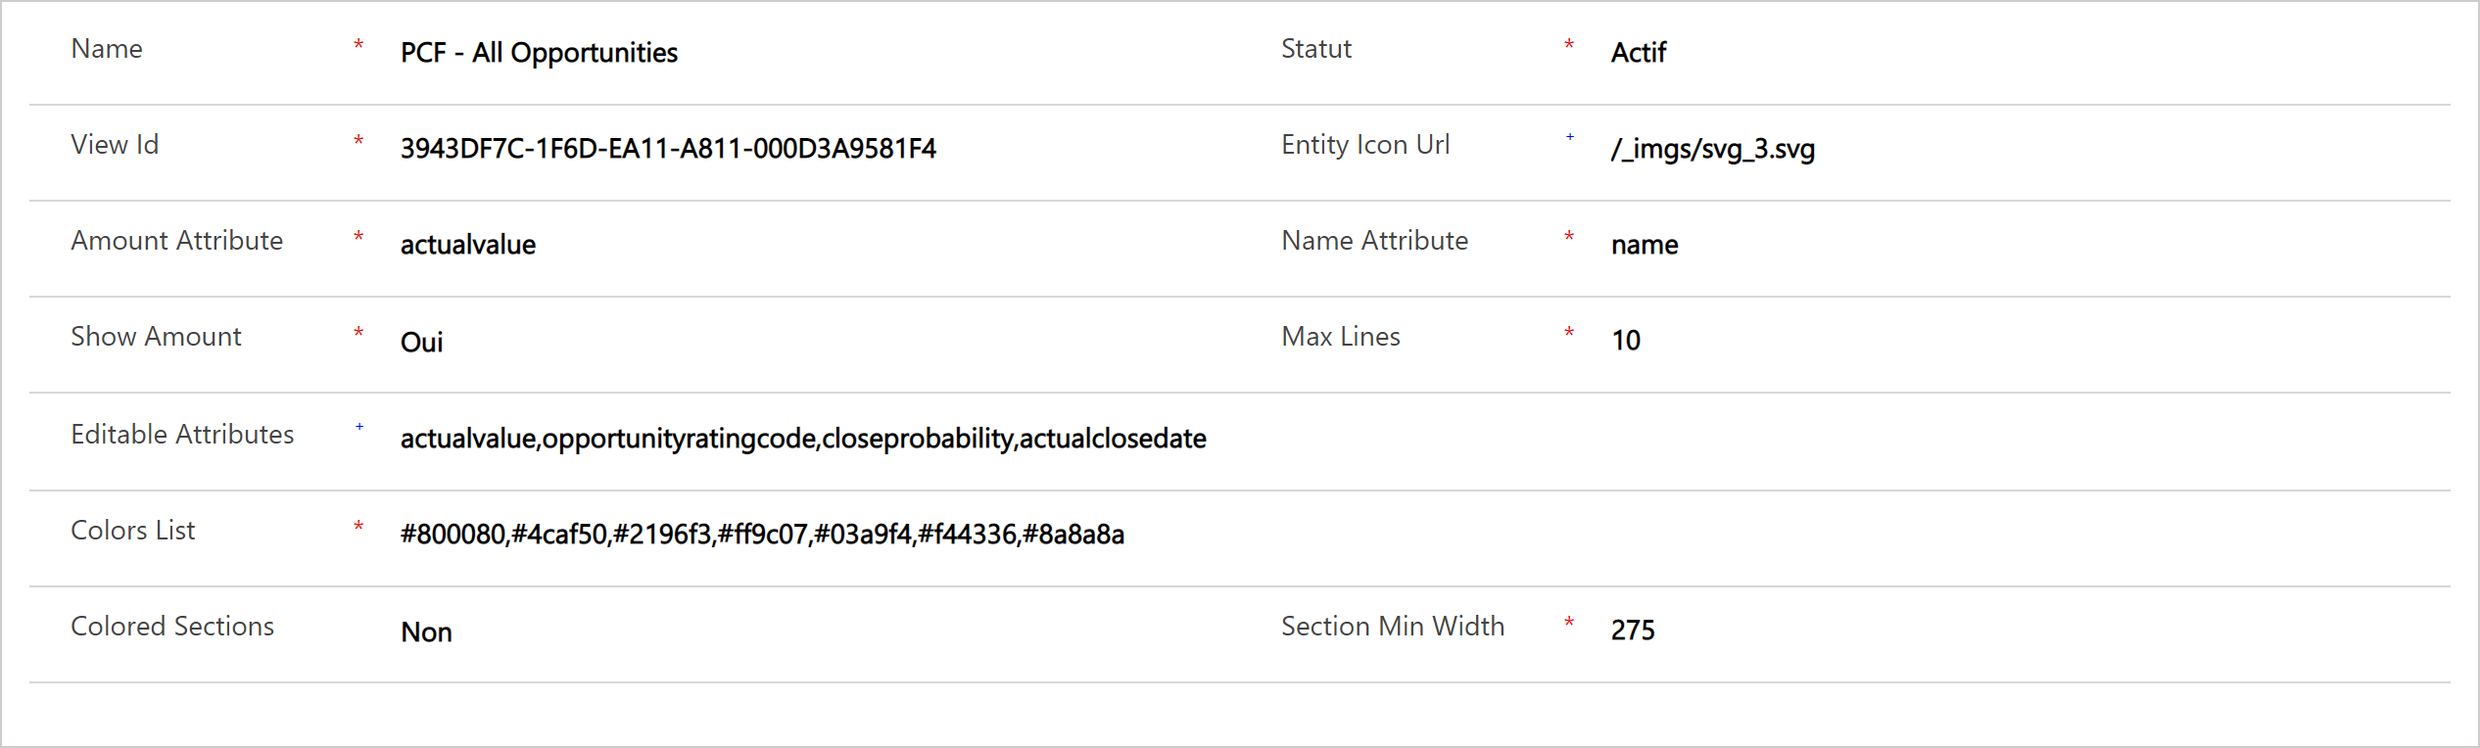
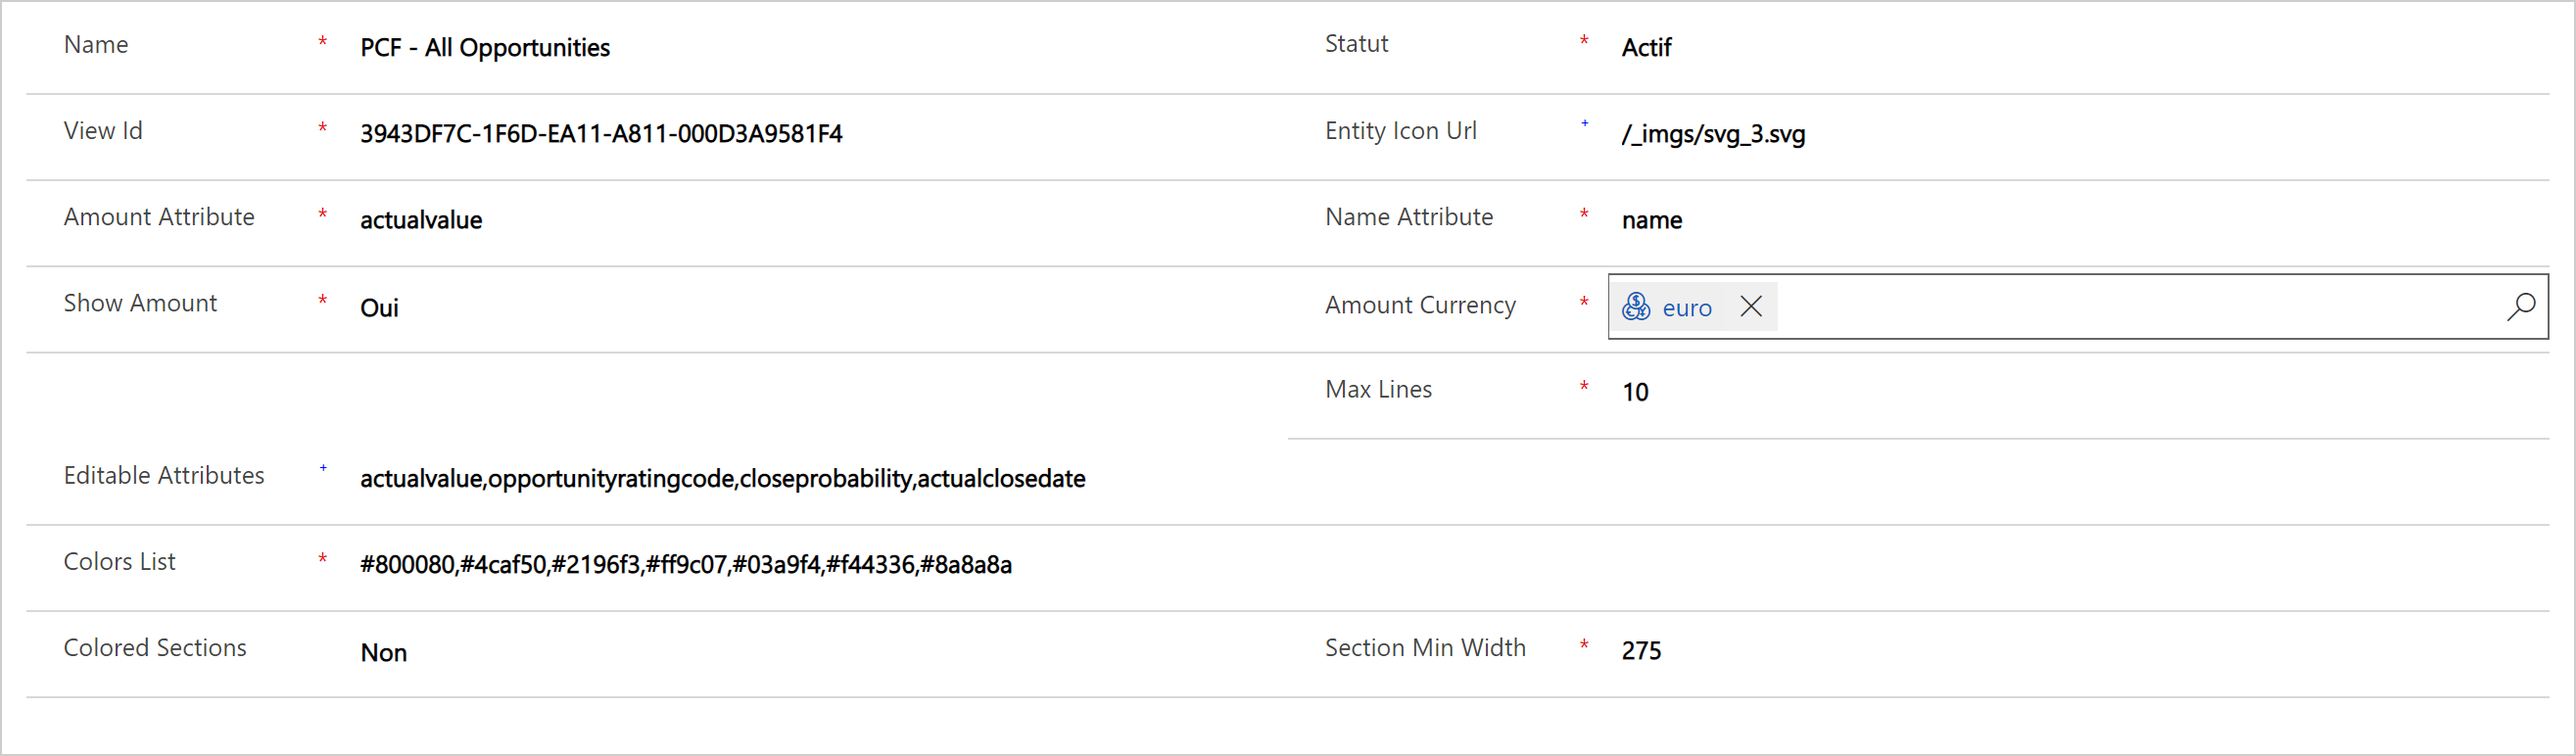
docs update

diff --git a/docs/index.html b/docs/index.html
@@ -262,6 +262,10 @@
                         <img src="images/showamount.png" class="img2" style="height: 200px;" alt="">
                     </li>
                     <li>
+                        <span style="font-weight: bold">Amount Currency :</span> Currency used for the top sum 
+                        <img src="images/amountcurrency.png" class="img2" style="height: 50px;" alt="">
+                    </li>
+                    <li>
                         <span style="font-weight: bold">Max Lines :</span> Limit of the show records ('More records' button is shown if this limit is reached) 
                         <img src="images/morerecords.png" class="img2" style="height: 40px;" alt="">
                     </li>
